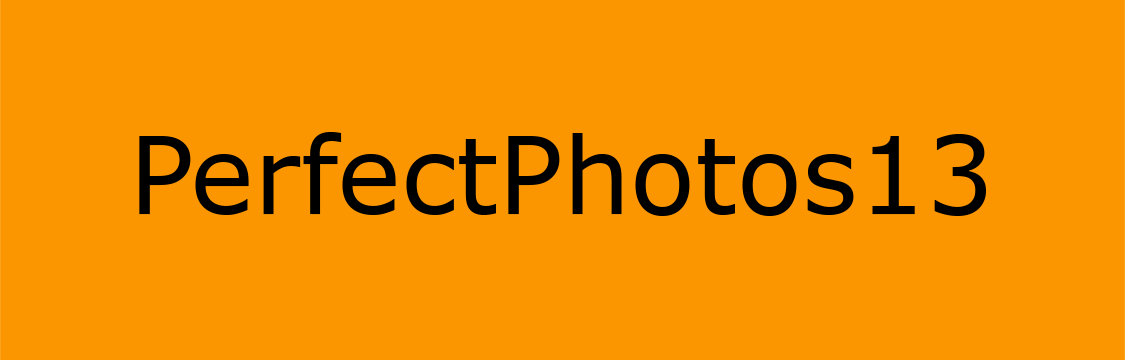
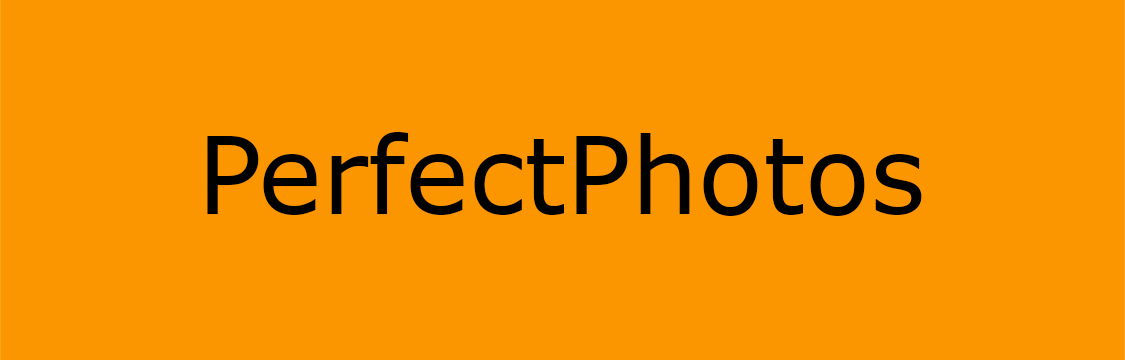
PerfectPhotos V1.3 change log:
- [x] Add option to delete media completely without going to the trash
- [x] Added ‘Enabled’ option to easily enable / disable the tweak
- [x] Removed the “13” from the tweak name - You will have to enable the options you want to use again

Changed region(s): [[0.1244, 0.3667, 0.9022, 0.6111], [0.3422, 0.3667, 0.3733, 0.3972]]

diff --git a/PerfectPhotos.h b/PerfectPhotos.h
@@ -1,0 +1,16 @@
+@interface PUOneUpViewController: UIViewController
+- (id)pu_debugCurrentAsset;
+@end
+
+@interface PUNavigationController
+- (UIViewController*)_currentToolbarViewController;
+@end
+
+@interface PHAsset: NSObject
+- (CGSize)imageSize;
+- (id)mainFileURL;
+@end
+
+@interface PUPhotoBrowserTitleViewController: UIViewController
+- (void)_setNeedsUpdate;
+@end

diff --git a/README.md b/README.md
@@ -1,3 +1,3 @@
-# PerfectPhotos13
+# PerfectPhotos
 
 iOS 13 Tweak - Various enhancements to the Photos app
